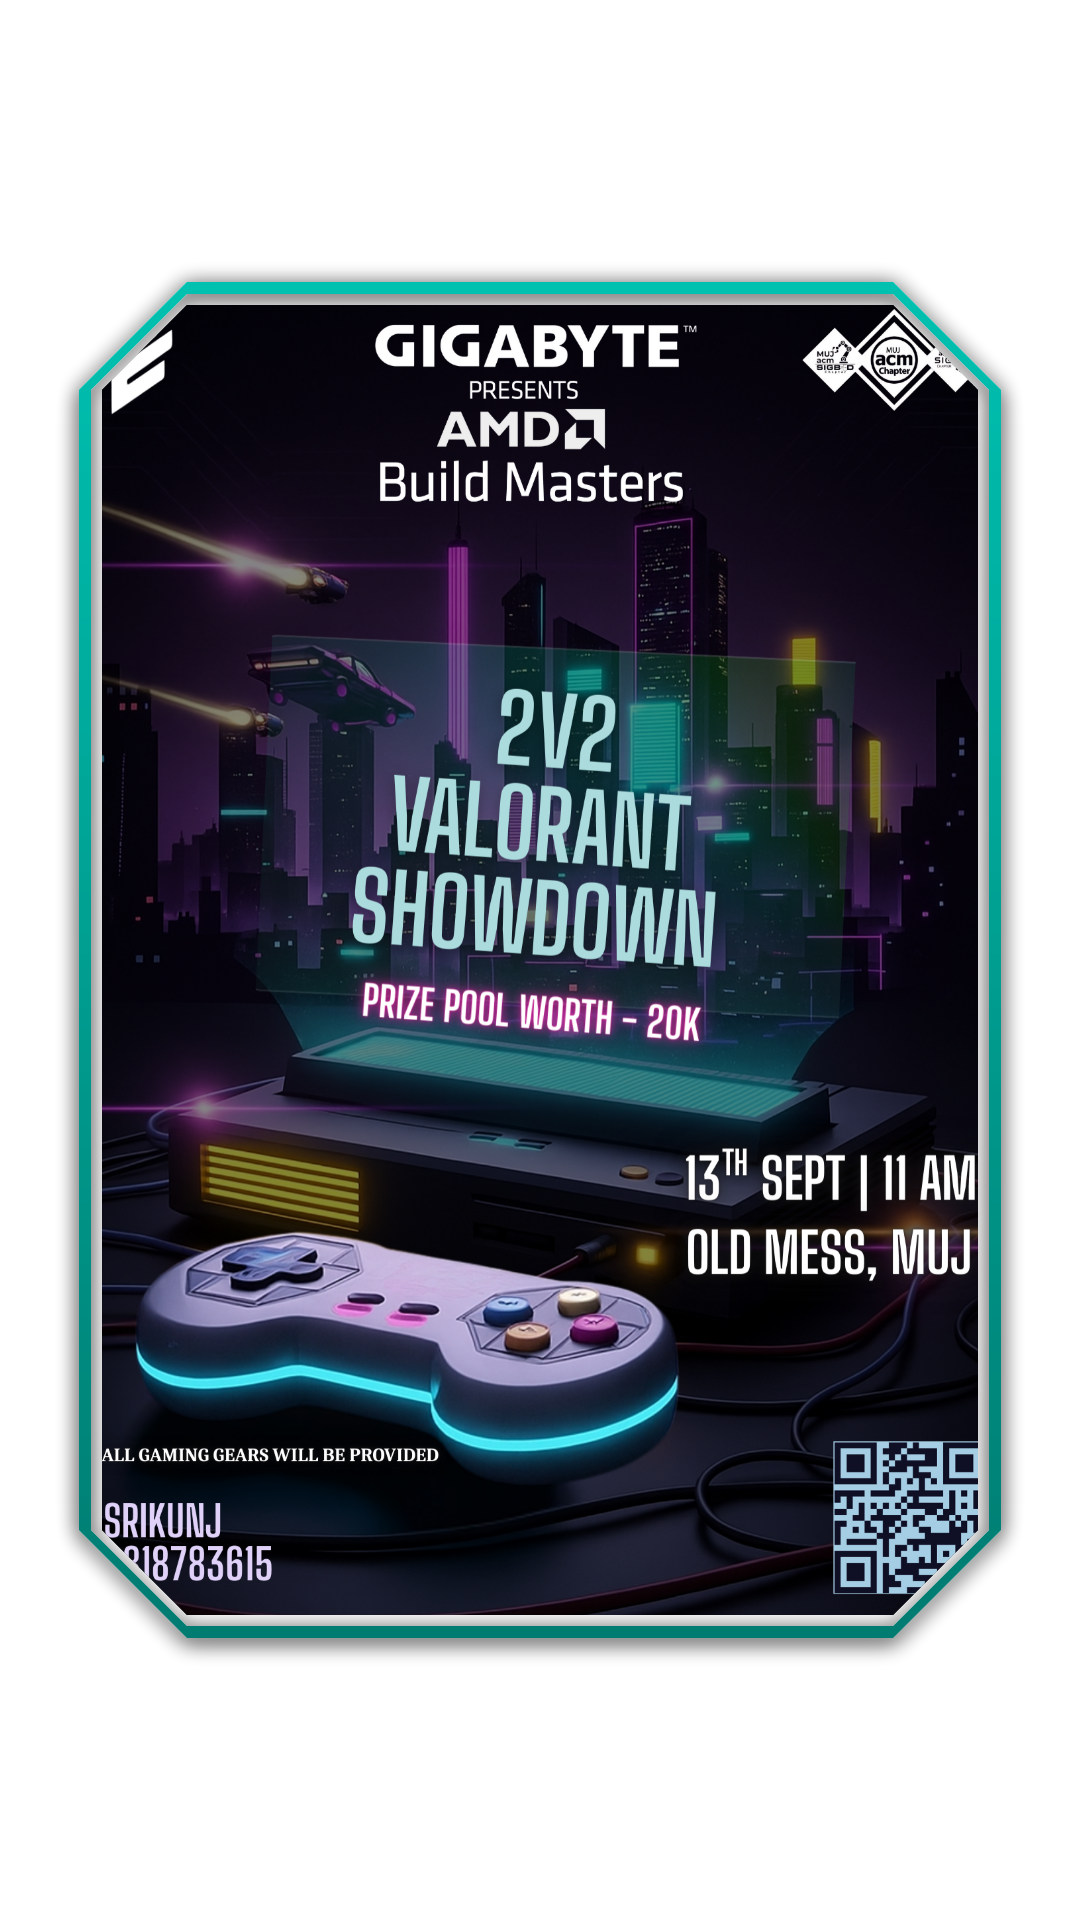
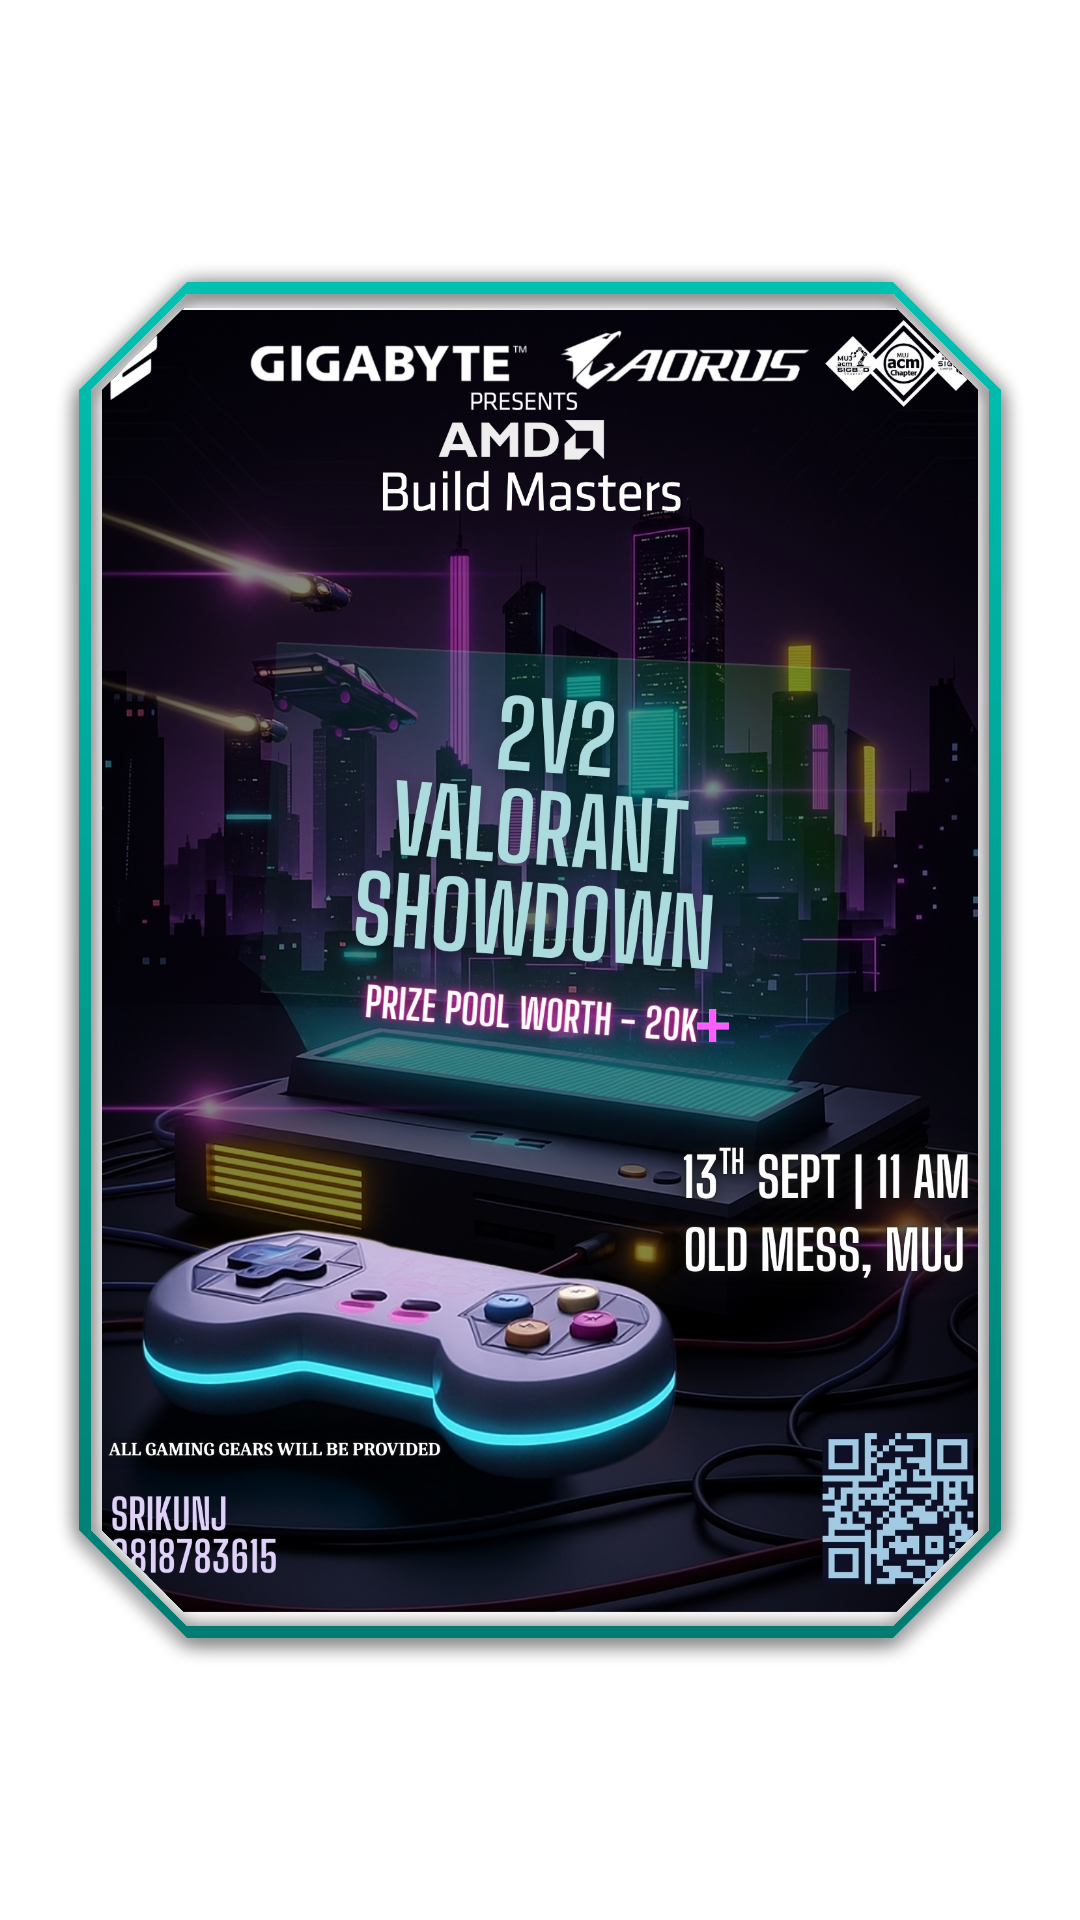
Changes 9/09/25-1

diff --git a/src/components/CyberpunkEvents.tsx b/src/components/CyberpunkEvents.tsx
@@ -87,6 +87,15 @@ const CyberpunkEventInterface: React.FC = () => {
       venue: "OLD MESS",
   poster: "/events/frames/pcbu.png",
     },
+    {
+      title: "2v2 Valorant Showdown",
+      description: "An electrifying 2v2 Valorant showdown where skill meets strategy.\nCompete, dominate, and claim ultimate bragging rights.",
+      date: "13th Sept 2025",
+      time: "11:00 AM",
+      venue: "OLD MESS",
+  poster: "/events/frames/valorant.png",
+  registerUrl: "https://linktr.ee/ROAD_TO_ELICIT_25", // TODO: replace with Google Form URL
+    },
      {
        title: "Defuse 2.0",
        description: "A unique two-person challenge built on communication and problem-solving. One teammate solves puzzles and riddles in a separate room while guiding their partner—equipped with a walkie-talkie—to cut the correct wires. The team that successfully defuses the bomb first claims victory.",

diff --git a/src/components/EventsGrid.tsx b/src/components/EventsGrid.tsx
@@ -12,7 +12,8 @@ interface PosterBox { id: number; poster: string; }
 // You can use .png/.jpg/.webp etc. Example: '/events/frames/hackathon.png'
 const POSTER_PATHS: string[] = [
   '/events/frames/hacks10.0.png',
-  '/events/frames/pcbu.png', // 2
+  '/events/frames/pcbu.png',
+  '/events/frames/valorant.png', // 2
   '/events/frames/Defuse2.png', // 3 // 5
   '/events/frames/devcon.png', // 7
   '/events/frames/ballerbot.png', // 8
@@ -22,7 +23,6 @@ const POSTER_PATHS: string[] = [
   '/events/frames/fd.png', // 9
   '/events/frames/comingsoon.png', // 10
   '/events/frames/comingsoon.png', // 11
-  '/events/frames/comingsoon.png',// 12
 ];
 
 const FALLBACK_POSTER = '/events/frames/Defuse.png';
